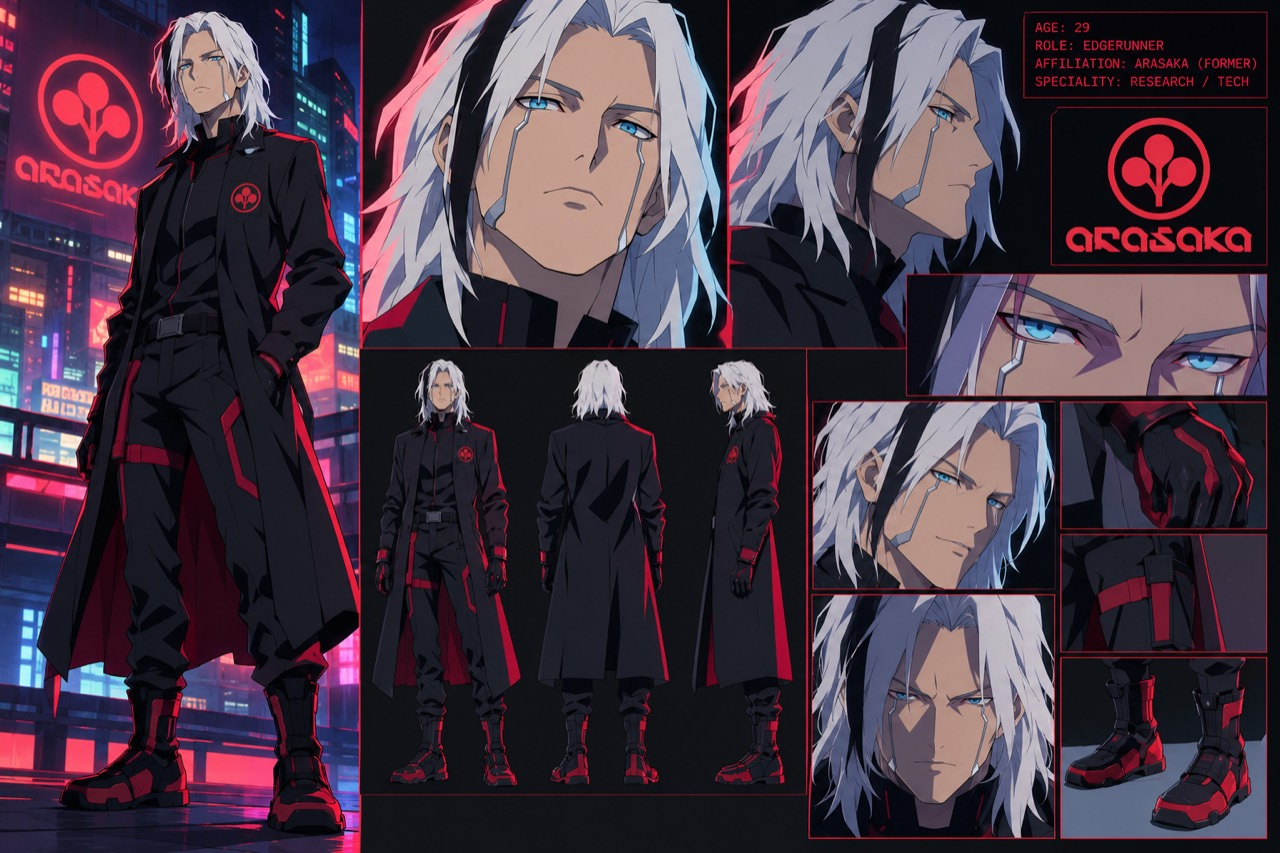
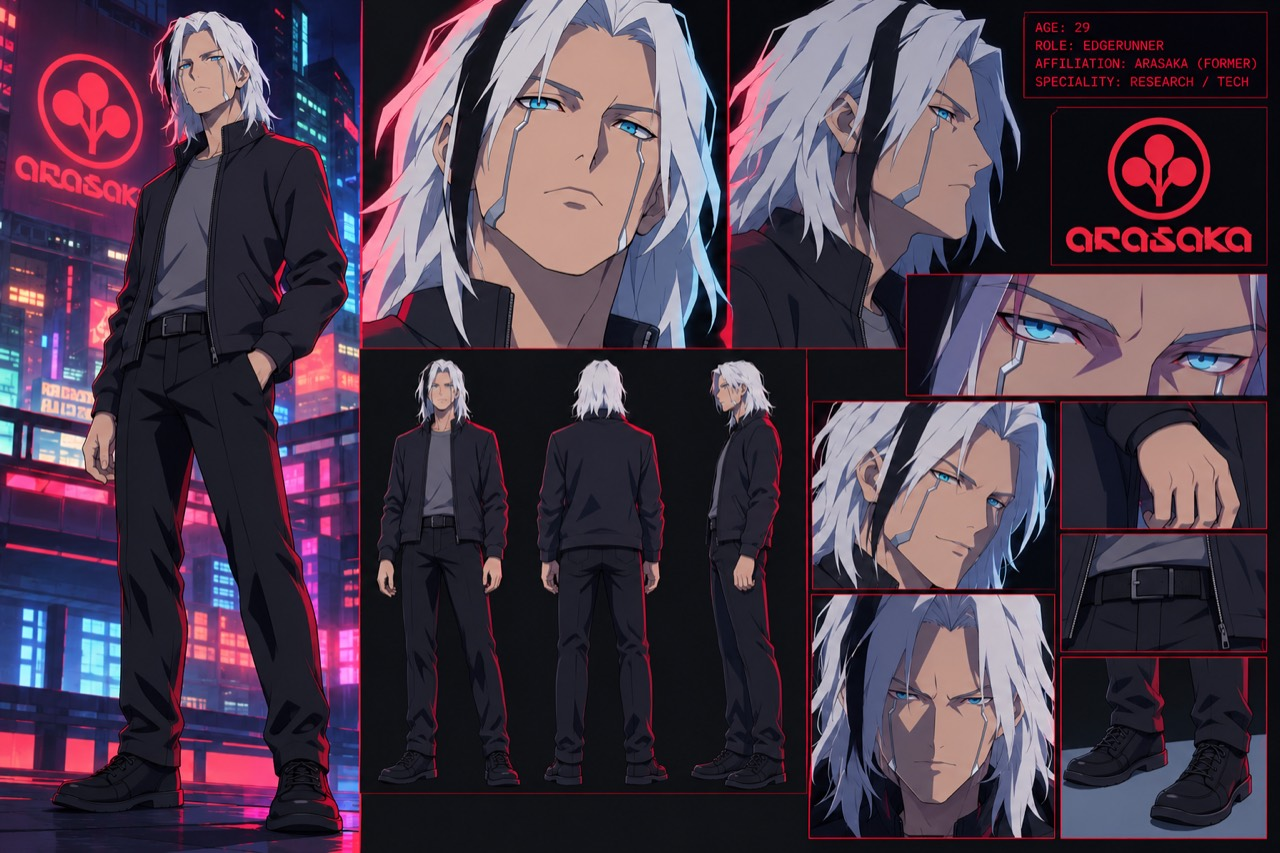
Update Fen portrait to current civilian outfit

diff --git a/docs/app.js b/docs/app.js
@@ -34,7 +34,7 @@ function render(){
 }
 function renderClock(){const c=sheet.clock,pad=n=>n==null?'—':String(n).padStart(2,'0');document.getElementById('story-clock').innerHTML=`<span>${esc(c.location.toUpperCase())}</span><time aria-label="Story date and local time">${pad(c.day)} / ${pad(c.month)} / ${c.year} <b>${pad(c.hour)}:${pad(c.minute)}</b></time>`;}
 function characterView(){const d=sheet.derived;return `${title('Personal Record','Character',`<span class="tag">${esc(sheet.identity.architecture||"Architecture Unselected")}</span>`)}
- <div class="character-layout"><section class="portrait-card" aria-label="Fen Vikutā appearance"><span class="corner"></span><div class="portrait"><img src="./${sheet.identity.art}" alt="Fen, with silver-white hair, cyan eyes and a black and red long coat"></div><div class="portrait-bottom"><div class="eyebrow">CORPORATE RESEARCHER</div><h2>FEN<br>VIKUTĀ</h2><p>${sheet.identity.age} · ${esc(sheet.identity.origin)}</p><p>${esc(sheet.identity.class)}${sheet.identity.architecture?" / "+esc(sheet.identity.architecture):""}</p><p class="muted">${esc(sheet.identity.specialty)}</p></div><button class="portrait-open" data-detail="profile" aria-label="Fen Vikutā — Personal Record"></button></section>
+ <div class="character-layout"><section class="portrait-card" aria-label="Fen Vikutā appearance"><span class="corner"></span><div class="portrait"><img src="./${sheet.identity.art}?v=0137.1" alt="Fen, with silver-white hair, cyan eyes, a charcoal jacket, grey shirt and black trousers"></div><div class="portrait-bottom"><div class="eyebrow">CORPORATE RESEARCHER</div><h2>FEN<br>VIKUTĀ</h2><p>${sheet.identity.age} · ${esc(sheet.identity.origin)}</p><p>${esc(sheet.identity.class)}${sheet.identity.architecture?" / "+esc(sheet.identity.architecture):""}</p><p class="muted">${esc(sheet.identity.specialty)}</p></div><button class="portrait-open" data-detail="profile" aria-label="Fen Vikutā — Personal Record"></button></section>
  <div class="stats-column"><div class="level-strip"><div class="level-box"><small>LEVEL</small>${String(level()).padStart(2,'0')}</div><div class="xp-track"><div class="meter-label"><span>EXPERIENCE</span><span>${sheet.resources.xp} / ${sheet.resources.next_level_xp}</span></div><div class="meter" role="progressbar" aria-label="Experience toward level ${level()+1}" aria-valuenow="${sheet.resources.xp}" aria-valuemin="0" aria-valuemax="${sheet.resources.next_level_xp}"><span style="width:${Math.min(100,sheet.resources.xp/sheet.resources.next_level_xp*100)}%"></span></div></div><div class="cash"><small>AVAILABLE</small>€$ ${sheet.finances.cash}</div></div>
  <div class="vitals"><button class="vital" data-detail="health"><label>Health</label><strong>${sheet.resources.hp_current ?? "—"} <em>/ ${d.hp_max}</em></strong><small>${sheet.resources.hp_current===d.hp_max?"Full health":"Current HP"}</small></button><button class="vital" data-detail="defence"><label>Armour Class</label><strong>${d.ac}</strong><small>Unarmoured</small></button><button class="vital" data-detail="initiative"><label>Initiative</label><strong>${signed(d.initiative)}</strong><small>Reflexes</small></button><button class="vital" data-detail="movement"><label>Movement</label><strong>${d.speed_ft} <em>ft</em></strong><small>${Math.round(d.speed_ft*0.3048)} metres</small></button></div>
  <div class="section-label">Attributes <small>27 / 27 POINT BUY · HUMAN</small></div><div class="attributes">${sheet.attributes.map((a,i)=>`<button class="attribute" data-detail="attr-${a.key}" aria-label="${a.name} ${a.score}, modifier ${signed(a.modifier)}"><div class="attr-top"><span class="attr-name">${a.name}</span>${icon(['body','reflex','heart','brain','tool','cool'][i])}</div><strong>${a.score}</strong><span class="modifier">${signed(a.modifier)}<small>MODIFIER</small></span></button>`).join('')}</div>
@@ -63,7 +63,7 @@ function openDetail(id){if(id==='class-reference'){openClassReference();return;}
  if(id.startsWith('item-')){const i=sheet.inventory.find(x=>x.id===id.slice(5));if(i)html=`<div class="eyebrow">${i.location} / ${i.status}</div><h2>${esc(i.name)}</h2><p>${esc(i.summary)}</p>${ruleSections(i.detail)}${i.id==='tamayura'?`<h3>Handling</h3>${ruleSections(sheet.rules.weapon_handling,[["Fire","Arasaka"],["Reload","Detachable"],["Ammunition","Magazine capacity"]])}`:''}`;}
  if(id.startsWith('attr-')){const a=sheet.attributes.find(x=>x.key===id.slice(5));if(a)html=`<h2>${a.name}</h2><p>${a.description}</p><div class="detail-stats"><div><small>Score</small><strong>${a.score}</strong></div><div><small>Modifier</small><strong>${signed(a.modifier)}</strong></div><div><small>Saving Throw</small><strong>${signed(a.modifier+(a.save_proficient?sheet.proficiencies.bonus:0))}</strong></div></div><p>Point buy ${a.base} (${a.cost} points) + 1 standard human bonus. ${a.save_proficient?'Proficient in this Saving Throw.':'Not proficient in this Saving Throw.'}</p><h3>Linked Skills</h3>${skillTable(skills.filter(x=>x[1]===a.key))}${a.key==='TECH'?`<p>Technology uses Technical Ability for hardware work. With proficiency, that check is ${signed(attrMod('TECH')+sheet.proficiencies.bonus)}.</p>`:''}`;}
  if(id==='skills')html=`<h2>Skills & Saving Throws</h2><p>Proficiency bonus ${signed(sheet.proficiencies.bonus)}. Filled markers identify proficient skills; all others still use their attribute modifier.</p>${skillTable(skills)}<h3>Saving Throws</h3><table class="detail-table"><tbody>${sheet.attributes.map(a=>`<tr><td>${a.name}${a.save_proficient?' <span class="badge">PROFICIENT</span>':''}</td><td>${signed(a.modifier+(a.save_proficient?sheet.proficiencies.bonus:0))}</td></tr>`).join('')}</tbody></table><h3>Passive Checks</h3><table class="detail-table"><tbody><tr><td>Perception · other senses</td><td>${d.passive_perception}</td></tr><tr><td>Perception · sight</td><td>${d.passive_sight}</td></tr><tr><td>Investigation</td><td>${d.passive_investigation}</td></tr></tbody></table><p>Sight includes the passive-check adjustment for disadvantage: ${d.passive_perception} − 5 = ${d.passive_sight}.</p>`;
- if(id==='profile')html=`<div class="eyebrow">${sheet.identity.age} / HUMAN / CORPORATE RESEARCHER</div><h2>Fen Vikutā</h2><p>${sheet.identity.bio}</p><img class="full-art" src="./${sheet.identity.art}" alt="Complete supplied character reference artwork">`;
+ if(id==='profile')html=`<div class="eyebrow">${sheet.identity.age} / HUMAN / CORPORATE RESEARCHER</div><h2>Fen Vikutā</h2><p>${sheet.identity.bio}</p><img class="full-art" src="./${sheet.identity.art}?v=0137.1" alt="Complete supplied character reference artwork">`;
  if(id==='health')html=`<h2>Health & Recovery</h2><p>${sheet.resources.hp_note}</p><div class="detail-stats"><div><small>Maximum HP</small><strong>${d.hp_max}</strong></div><div><small>Hit Dice</small><strong>${sheet.resources.hit_dice_current ?? d.hit_dice_total} / ${d.hit_dice_total} ${d.hit_die}</strong></div><div><small>CON modifier</small><strong>${signed(attrMod('CON'))}</strong></div></div><h3>Rest</h3>${ruleSections(sheet.rules.rests,[["Short Rest","Short Rest:"],["Long Rest","Long Rest:"],["HP Recovery","With adequate"]])}${sheet.resources.last_long_rest?`<p>Last Long Rest: ${formatMoment(sheet.resources.last_long_rest.end)}. Next Long Rest benefit: ${formatMoment(sheet.resources.last_long_rest.next_benefit_not_before)} or later.</p>`:''}<h3>Convalescence</h3>${ruleSections(sheet.rules.convalescence,[["Care & Hit Dice","Once per"],["Treatment & Recovery","Critical injuries"]])}<h3>Critical Injuries</h3>${ruleSections(sheet.rules.injuries)}<p>Full HP does not erase an injury.</p>`;
  if(id==='defence')html=`<h2>Armour Class ${d.ac}</h2><p>${d.ac_basis}</p><p>Light armour proficient.</p>`;
  if(id==='initiative')html=`<h2>Initiative ${signed(d.initiative)}</h2><p>Roll d20 ${signed(d.initiative)}.</p>`;

diff --git a/docs/index.html b/docs/index.html
@@ -15,7 +15,7 @@
   <link rel="apple-touch-icon" href="./assets/apple-touch-icon.png">
   <link rel="preload" href="./assets/Rajdhani-SemiBold.ttf" as="font" type="font/ttf" crossorigin>
   <link rel="stylesheet" href="./styles.css?v=0120.1">
-  <script src="./app.js?v=0118.1" defer></script>
+  <script src="./app.js?v=0137.1" defer></script>
 </head>
 <body>
   <a class="skip" href="#main">Skip to character sheet</a>
